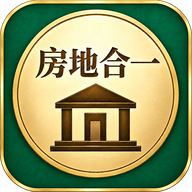
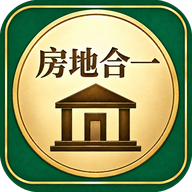
Add files via upload

diff --git a/sw.js b/sw.js
@@ -1,13 +1,13 @@
 // 最小 Service Worker — 滿足 Chrome PWA 安裝條件 + 離線快取
 const CACHE_PREFIX = 'fwTax-' + encodeURIComponent(self.registration.scope) + '-';
-const CACHE = CACHE_PREFIX + '2026.09.12D-round-8eebc5fc';
+const CACHE = CACHE_PREFIX + '2026.09.12D-inset-69e6636e';
 const ASSETS = [
   './',
   './index.html',
-  './manifest.json?v=2026.09.12D-round-8eebc5fc',
-  './icon-192.png?v=2026.09.12D-round-8eebc5fc',
-  './icon-512.png?v=2026.09.12D-round-8eebc5fc',
-  './icon-180.png?v=2026.09.12D-round-8eebc5fc'
+  './manifest.json?v=2026.09.12D-inset-69e6636e',
+  './icon-192.png?v=2026.09.12D-inset-69e6636e',
+  './icon-512.png?v=2026.09.12D-inset-69e6636e',
+  './icon-180.png?v=2026.09.12D-inset-69e6636e'
 ];
 
 self.addEventListener('install', (e) => {

diff --git a/index.html b/index.html
@@ -71,10 +71,10 @@
 })();
 </script>
 <!-- PWA -->
-<link rel="manifest" href="manifest.json?v=2026.09.12D-round-8eebc5fc">
-<link rel="icon" type="image/png" sizes="192x192" href="icon-192.png?v=2026.09.12D-round-8eebc5fc">
+<link rel="manifest" href="manifest.json?v=2026.09.12D-inset-69e6636e">
+<link rel="icon" type="image/png" sizes="192x192" href="icon-192.png?v=2026.09.12D-inset-69e6636e">
 <!-- iOS -->
-<link rel="apple-touch-icon" href="icon-180.png?v=2026.09.12D-round-8eebc5fc">
+<link rel="apple-touch-icon" href="icon-180.png?v=2026.09.12D-inset-69e6636e">
 <meta name="apple-mobile-web-app-capable" content="yes">
 <meta name="apple-mobile-web-app-status-bar-style" content="black-translucent">
 <meta name="apple-mobile-web-app-title" content="房地合一">
